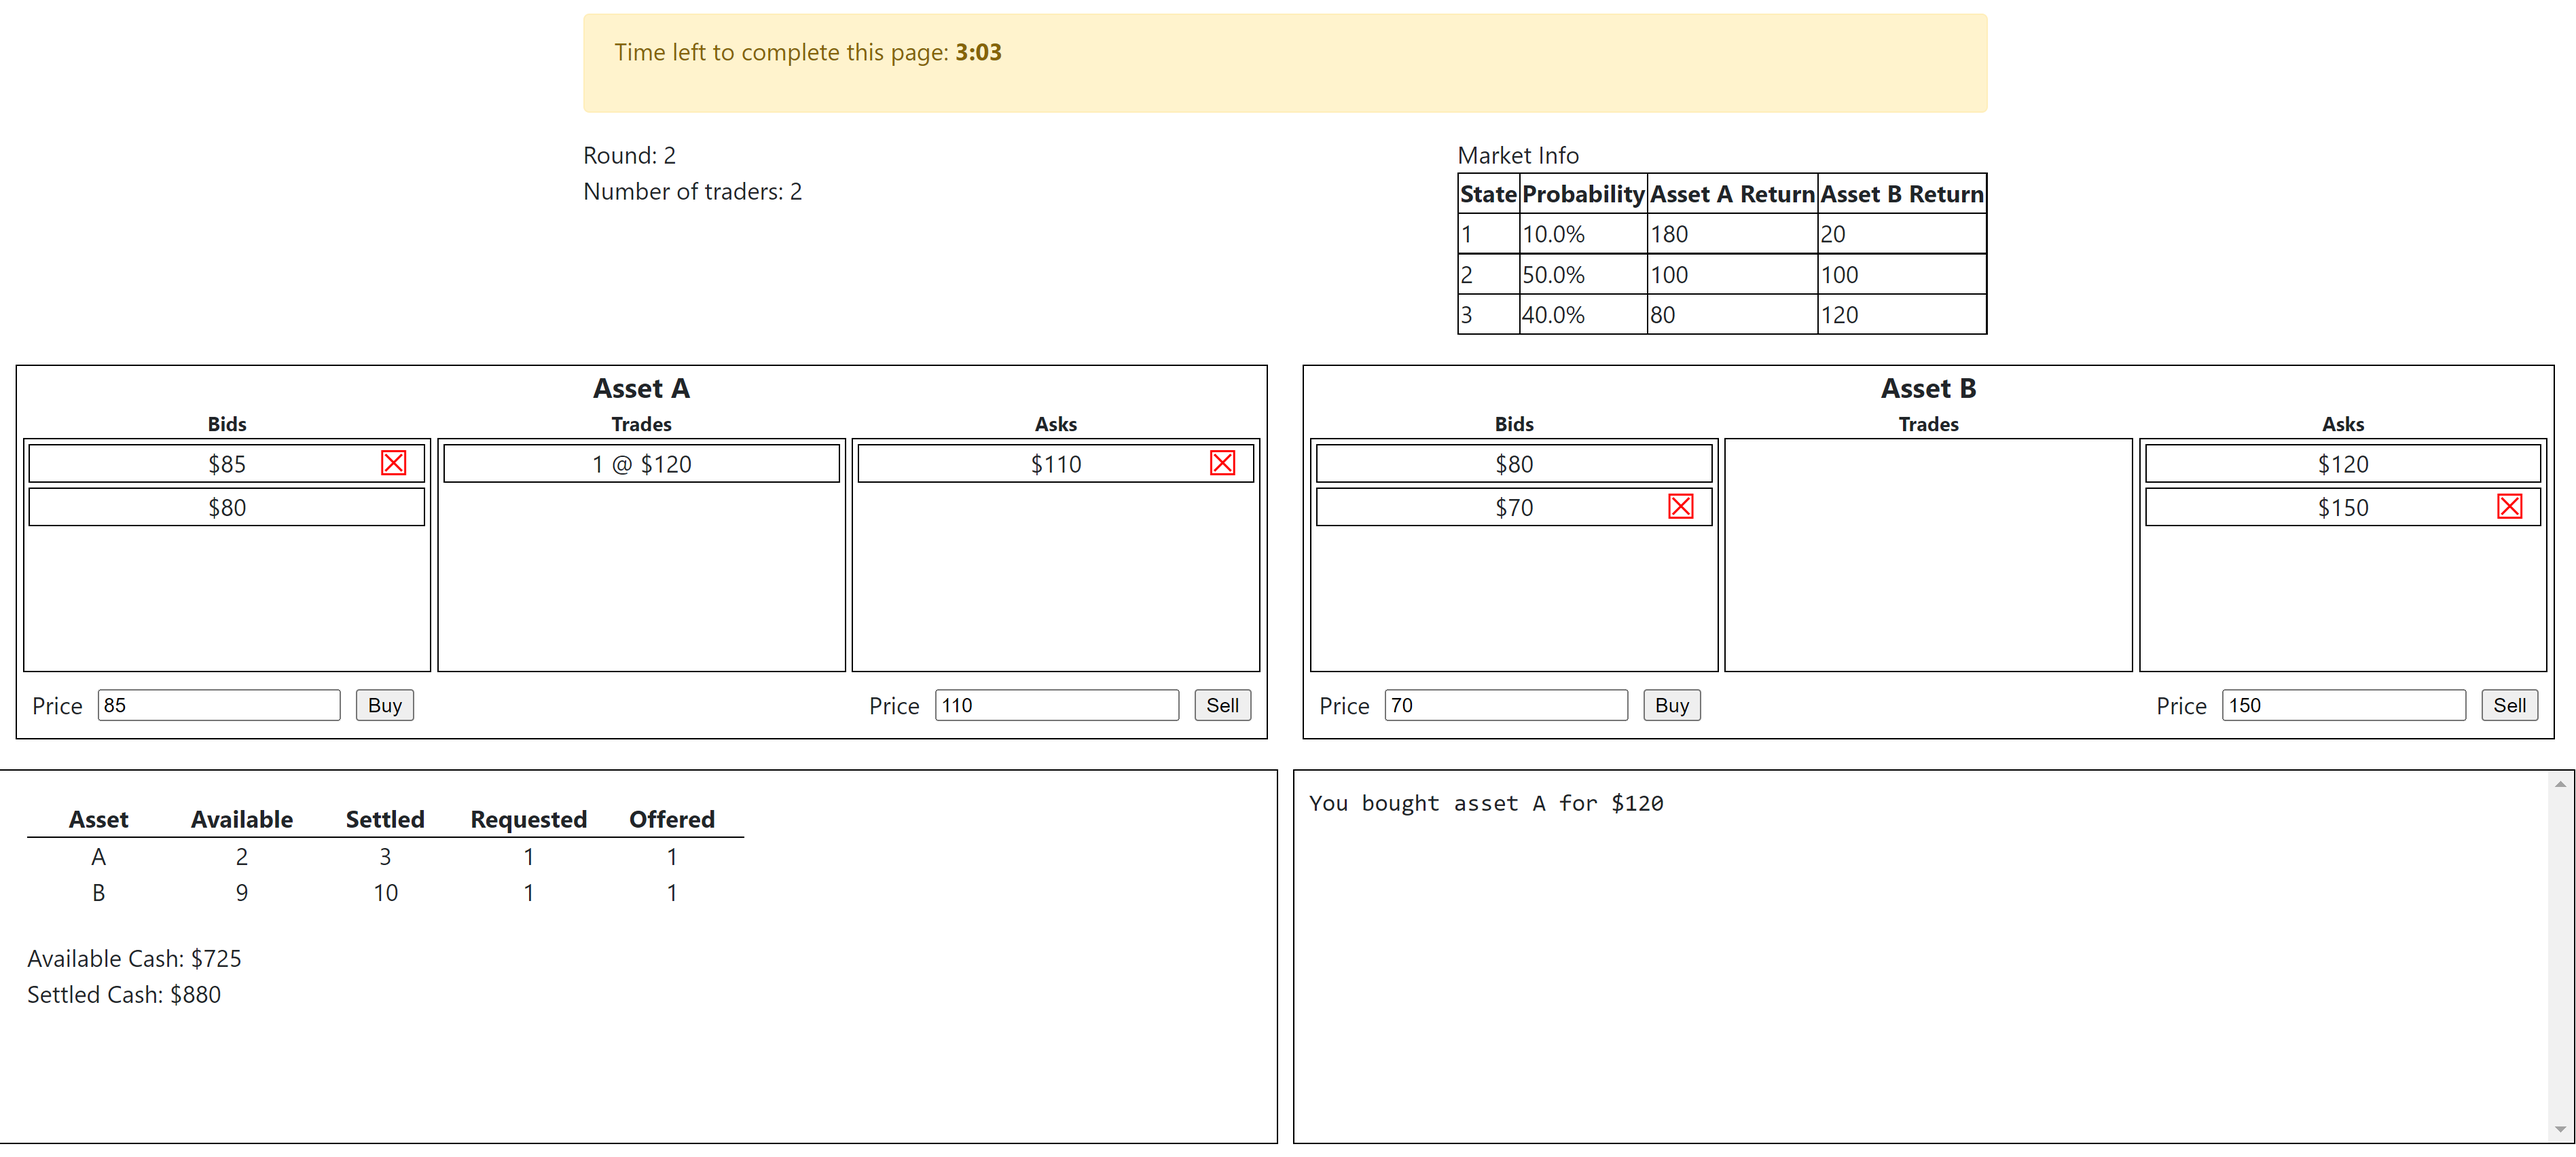
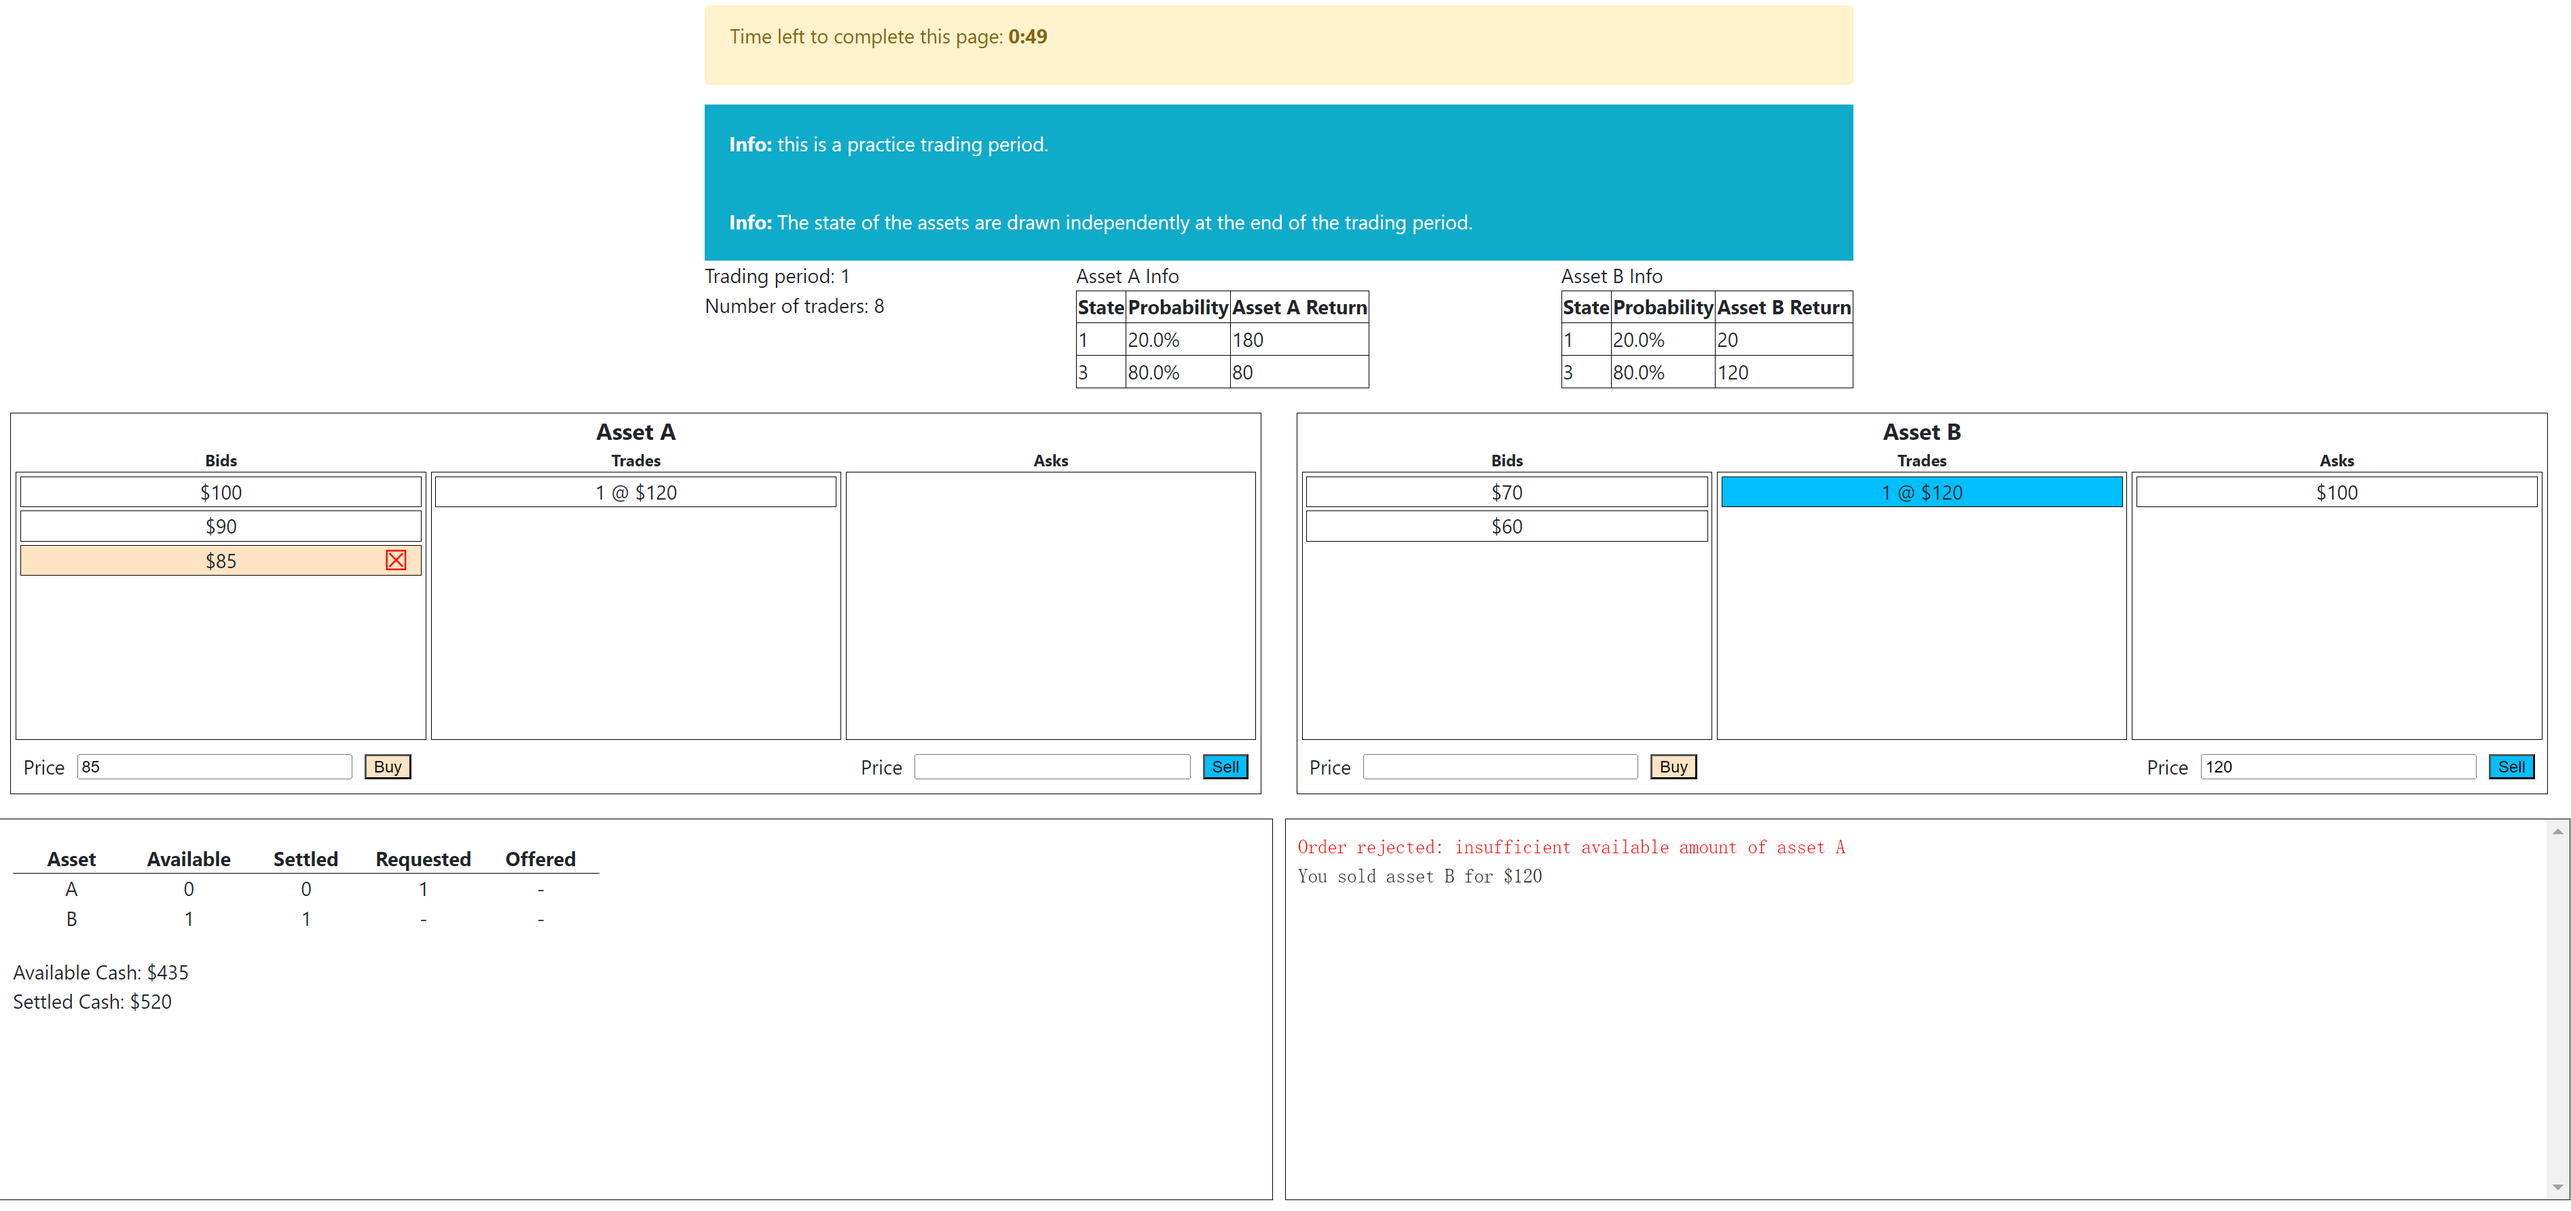
update UI figure

diff --git a/salience_market/templates/salience_market/Instruction.html b/salience_market/templates/salience_market/Instruction.html
@@ -54,7 +54,7 @@ Since the computer uses a 10-sided fair dice, throwing 1-4 means state 1 is chos
 <h4>How to Trade</h4>
 <p>
 When you enter a trading period, you will start to interact with the user interface.
-The figure below shows an example of the user interface with 3 states and 2 assets.
+The figure below shows an example of the user interface with 2 states and 2 assets.
 <b>Please be aware that the example figures (this one and the other one below) only show you what the user interface looks like,
 and does NOT indicate what game strategy you should use.</b>
 </p>
@@ -94,6 +94,9 @@ and the boxes for Asset B on the right. In each trading box,
   </li>
   <li>
     The "Trades" box in the middle shows the successful trading history in the market with the most recent trades on the top.
+  </li>
+  <li>
+    To distinguish your orders from other participants' orders, your orders (bids,asks,trades) are highlighted.
   </li>
 </ul>
 </p>
